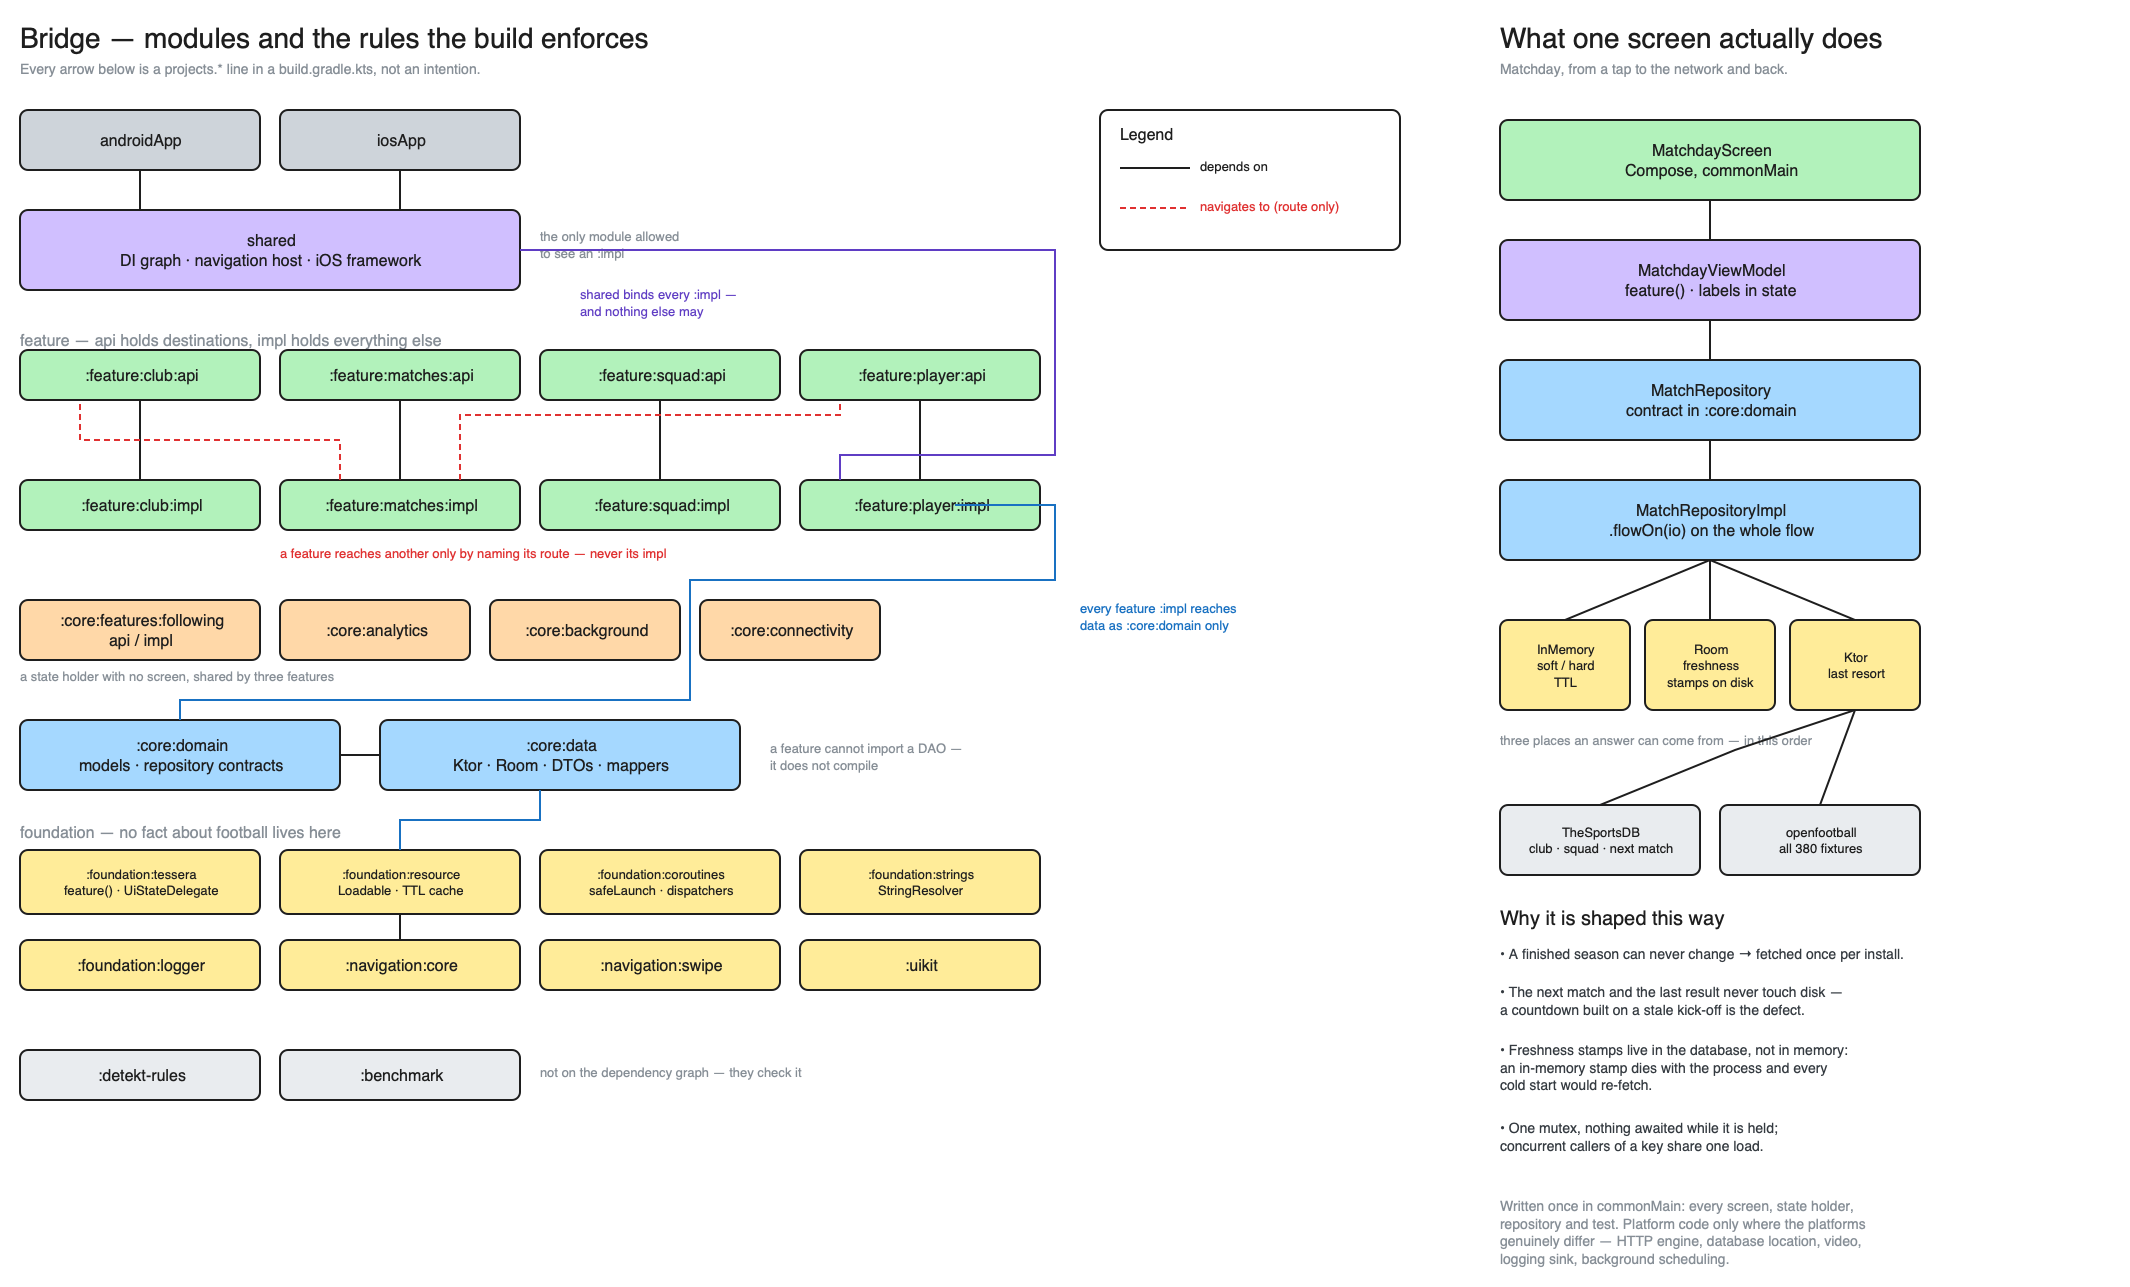
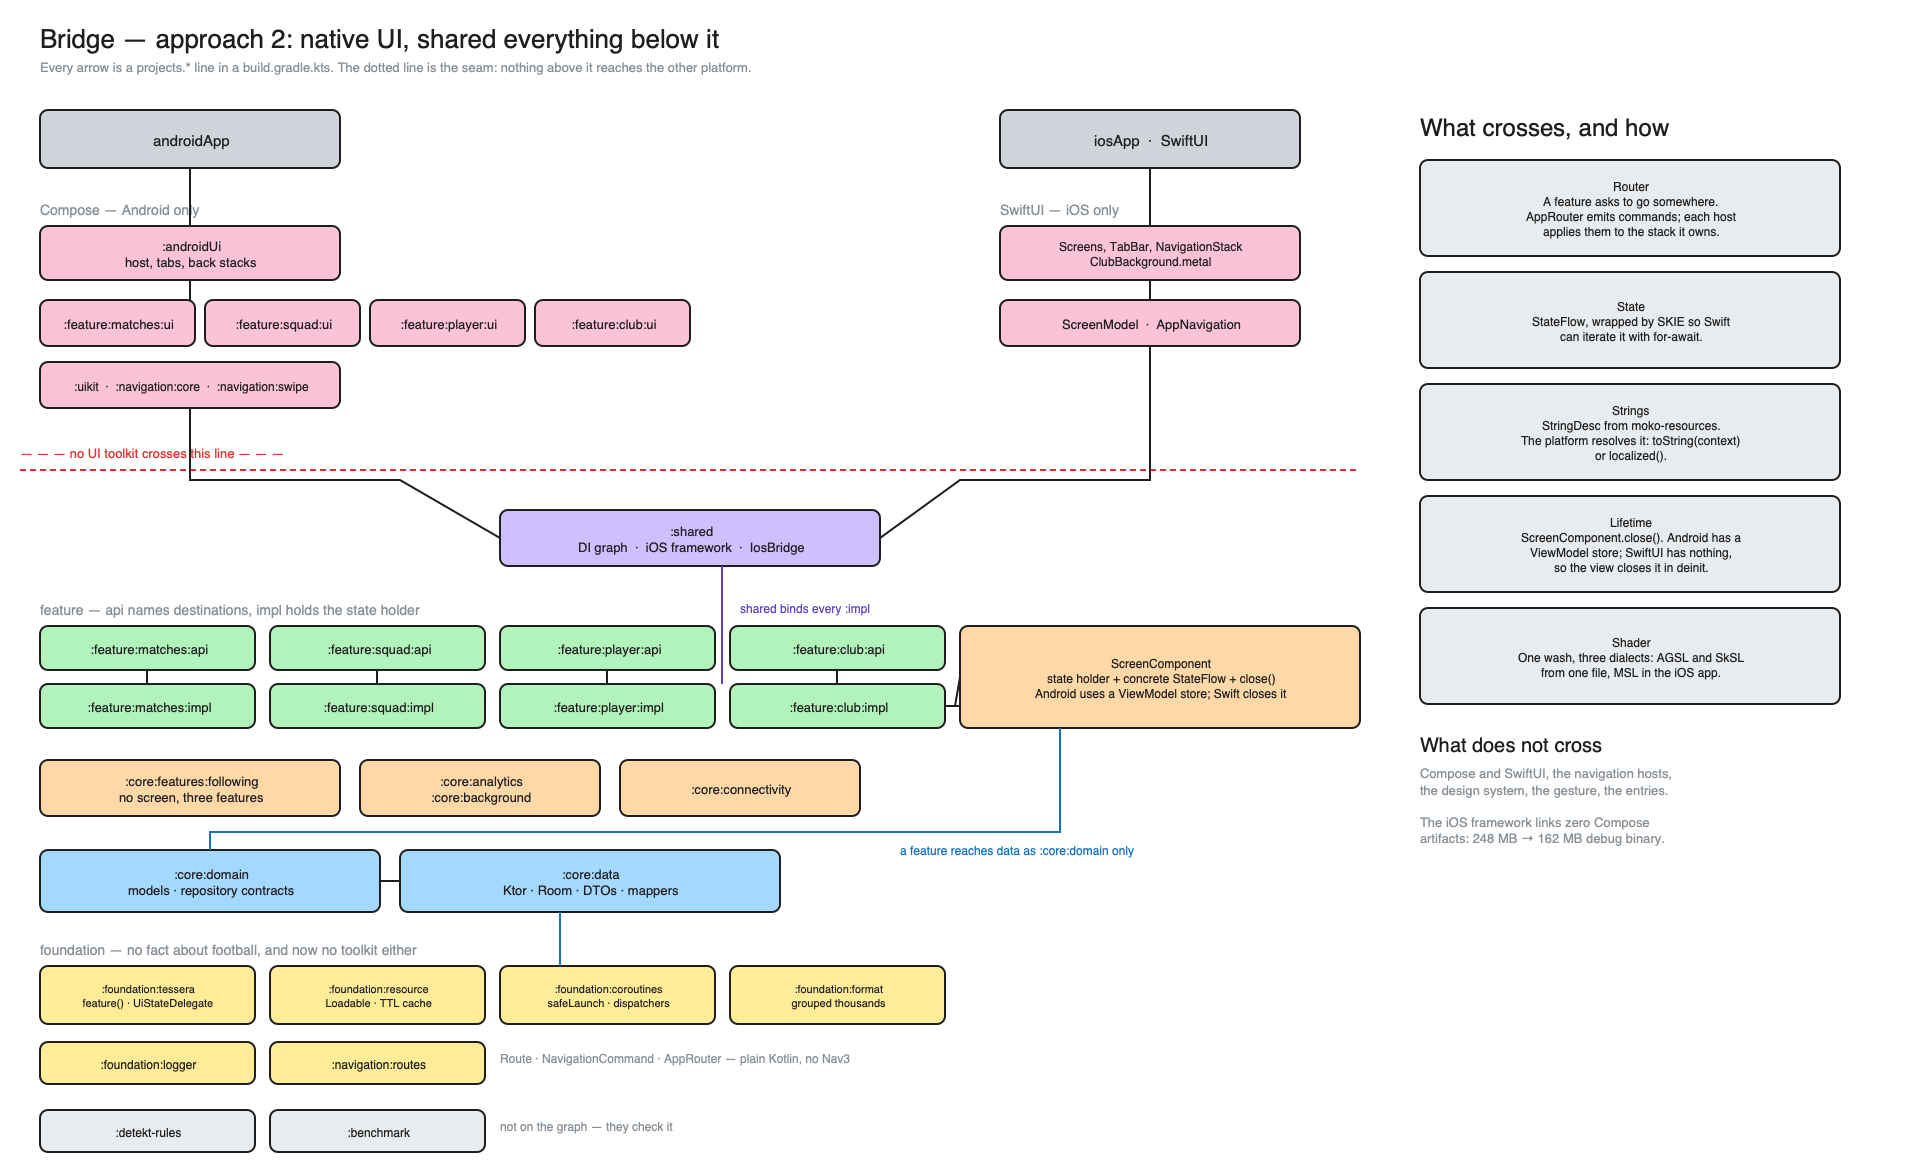
docs: the README and the diagram describe the second approach
The page opened by claiming every screen is written once, which is true on
master and false here. It now names both branches and what each shares, and the
tables say which half of every concern crosses the line: the router decides in
Kotlin and moves in Swift, a string travels as a description and is resolved by
whoever draws it, a state holder is held by a ViewModel store on one side and
closed in deinit on the other.

The diagram is redrawn from the current build files, with the seam across it:
above the dotted line the two UIs, below it everything they share. The module
table gained the third part of every feature and the two modules that came out
of the split.

Screenshots of the SwiftUI screens sit next to the Compose ones they match.

diff --git a/README.md b/README.md
@@ -1,8 +1,17 @@
 # Bridge
 
-**A worked example of a Kotlin Multiplatform app.** One codebase, two platforms, and a real
-feature set rather than a template: networking, a database, navigation with its own gesture,
-runtime shaders, a video player, background work and tests that run on both platforms.
+**A worked example of a Kotlin Multiplatform app, built twice.** One feature set — networking, a
+database, navigation with its own gesture, runtime shaders, a video player, background work — and
+two answers to the question every KMP project has to answer: how much of the UI is shared?
+
+| Branch | UI | Shared |
+|---|---|---|
+| `master` | Compose Multiplatform, one set of screens | everything, including the screens |
+| `feature/native-ui` (this one) | Compose on Android, SwiftUI on iOS | everything below the state holder |
+
+This branch is the second answer. The iOS framework it produces links **zero** Compose artifacts;
+the state holders, the navigation decisions, the data layer and the shader maths are still written
+once. What each platform owns is the drawing.
 
 It is a football supporter app because an example needs a subject. Clone it and run it — there is
 no API key to obtain and no account to create.
@@ -11,15 +20,17 @@ no API key to obtain and no account to create.
 > No club artwork is stored in this repository; every image is loaded at runtime from the data
 > sources listed below.
 
-### iOS
+### iOS — SwiftUI, on the shared state holders
 
-| Matchday | Season |
-|---|---|
-| ![Matchday](docs/screenshots/ios-matchday.jpg) | ![Season](docs/screenshots/ios-season.jpg) |
+| Matchday | Squad | Player |
+|---|---|---|
+| ![Matchday](docs/screenshots/ios-native-matchday.jpg) | ![Squad](docs/screenshots/ios-native-squad.jpg) | ![Player](docs/screenshots/ios-native-player.jpg) |
 
-| Squad | Club |
-|---|---|
-| ![Squad](docs/screenshots/ios-squad.jpg) | ![Club](docs/screenshots/ios-club.jpg) |
+The same screens on `master`, drawn by Compose Multiplatform:
+
+| Matchday | Squad | Club |
+|---|---|---|
+| ![Matchday](docs/screenshots/ios-matchday.jpg) | ![Squad](docs/screenshots/ios-squad.jpg) | ![Club](docs/screenshots/ios-club.jpg) |
 
 ### Android — the same shared code
 
@@ -29,25 +40,26 @@ no API key to obtain and no account to create.
 
 ## What is shared, and what is not
 
-Every screen, every state holder, every repository and every test below is written once in
-`commonMain`. The platform code is the short list on the right, and it is short on purpose: an
-`expect`/`actual` pair is used where the platforms genuinely differ, not to organise the code.
+The line is drawn under the state holder. Everything that decides — what the screen shows, where a
+tap leads, when data is stale — is written once; everything that draws is written twice, on purpose,
+because that is where the platforms differ in kind rather than in detail.
 
 | Concern | Shared | Platform-specific |
 |---|---|---|
-| UI | Compose Multiplatform 1.11.1 — all screens | — |
-| Navigation | Navigation3, routes, router, per-tab stacks, swipe-to-dismiss | — |
-| State | `tessera`: `feature()` / `UiStateDelegate`, ViewModels | — |
-| DI | Koin 4.2 | Android `Context` binding |
+| UI | — | Compose Multiplatform / SwiftUI, screen for screen |
+| Navigation | routes, commands, the router that emits them | the back stacks that obey: Navigation3 / NavigationStack |
+| State | `tessera`: `feature()` / `UiStateDelegate`, ViewModels, `ScreenComponent` | how a screen holds one: a ViewModel store / `deinit` |
+| Strings | the ids and the format arguments, as `StringDesc` | resolving them: `toString(context)` / `localized()` |
+| DI | Koin 4.2, one graph | the host's own bindings, passed in at startup |
 | Network | Ktor 3.5, kotlinx.serialization | OkHttp / Darwin engines |
 | Database | Room 2.8 KMP, bundled SQLite | database file location |
-| Images | coil3 | — |
-| Blur | Haze 2.0 | — |
-| Runtime shaders | one source in a dialect both accept | AGSL / SkSL runtime |
-| Video | playback contract, transport controls | ExoPlayer / AVPlayer |
+| Images | the urls | coil3 / `AsyncImage` |
+| Blur | — | Haze / `.ultraThinMaterial` |
+| Shaders | the maths, constant for constant | three dialects: AGSL, SkSL, MSL |
+| Video | playback contract, the clip | ExoPlayer / `AVPlayer` |
 | Logging | levels, tags, the debug gate | `Log` / `NSLog` |
 | Background refresh | what to refresh | WorkManager / `BGTaskScheduler` |
-| Tests | unit tests and a Compose UI test in `commonTest` | run natively on iOS, on a device on Android |
+| Tests | unit tests in `commonTest`, plus the iOS mapping tests | run natively on iOS, on a device on Android |
 
 Kotlin 2.4.10, Gradle 9.1, AGP 9.0, JDK 21, minSdk 26. Static analysis is detekt with a rule
 written for this repository; performance has a Macrobenchmark module and a recorded baseline
@@ -93,12 +105,58 @@ no-op on iOS — no error, no log. `GlassBackdrop` makes the two siblings by con
 `Modifier.glass()` exists only inside its scope, so the mistake is unrepresentable rather than
 merely documented.
 
-**Strings are never read on the frame.** A Compose resource is a `suspend` call, so reading one
-while composing means either blocking the frame or rendering a screen that has no words yet. Each
-feature instead declares the ids it needs and asks a `StringResolver` for them once, off the main
-thread, before its first frame; the resolved labels then live in the state next to everything else
-the screen draws. The host never names a feature — it asks the graph for every `LabelsLoader` and
-runs them — so a new feature brings its own strings with it.
+**A shared string that neither platform has to resolve.** A Compose resource is a `suspend` call —
+the words live in a bundle Compose ships — so on `master` a whole machinery grew around that: a
+resolver, a loader per feature, and a gate the host waited on before it drew anything. Here a state
+holder carries `StringDesc` from moko-resources: a description of a string rather than a string, and
+the platform that draws it resolves it with `toString(context)` or `localized()`. Nothing is read
+ahead of the first frame because nothing is read at all until something draws.
+
+```kotlin
+data class PlayerLabels(
+    val title: StringDesc = PlayerStrings.strings.player_title.desc(),
+    val number: StringDesc = PlayerStrings.strings.player_number.desc(),
+)
+```
+
+The cost is one Xcode build phase: a static framework carries no resources of its own, so the
+generated bundles are copied into the app — and the crash when they are not is at the first word
+drawn, not at build time.
+
+**A state holder with no store to live in.** Android has a `ViewModelStore` and something that
+empties it; SwiftUI has neither. `ScreenComponent` is what a Swift view holds instead: the state
+holder, its state under a concrete type, and a `close()` the view calls in `deinit`. The DI builds
+the wiring once and hands Compose the ViewModel, Swift the component.
+
+```swift
+@StateObject private var model = ScreenModel(
+    component: IosBridge.shared.matchday(),
+    state: { $0.state },
+    close: { $0.close() }
+)
+```
+
+The component is built **inside** the `StateObject` rather than in the view's `init`. A SwiftUI view
+is a struct that gets rebuilt constantly; building it there makes one per rebuild, and the ones
+SwiftUI discards close on deinit — cancelling the scope the surviving model is waiting on. The
+screen then sits at "loading" for ever, which is exactly what it did.
+
+**Navigation that decides in Kotlin and moves in Swift.** The router holds no stack. It repeats
+decisions — `navigateTo`, `up` — and each host applies them to the stack it owns: a Compose back
+stack on one side, four `NavigationStack`s on the other. The rule that a tab root selects its tab
+instead of being pushed is stated twice, once per host, because it is a statement about tabs rather
+than about routing. Nothing is replayed: a decision nobody is listening to is dropped, because
+obeying it later would move a user who has since gone elsewhere.
+
+Swift gets a vocabulary of its own — `IosNavigation`, a sealed interface SKIE turns into an enum it
+can switch on exhaustively. Route classes stay the features' business: a Swift view has no reason to
+import four `api` modules, and the export only carries types the exported API mentions.
+
+**One shader, three dialects.** The club-blue wash behind the squad cards and the player pager is
+written once in the subset AGSL and SkSL share, and again in Metal for SwiftUI, constant for
+constant — the wave across x, the sweep along x+y, and the half-step dither that keeps a gradient
+this shallow from banding on an 8-bit ramp. Copied, not re-tuned by eye, which is what makes the two
+backgrounds move the same way rather than merely look alike.
 
 **A composition API that refuses to starve.** `combine` emits nothing until every source has
 spoken, so one silent source leaves a screen blank forever. `composeState` therefore accepts only
@@ -168,15 +226,16 @@ rule appears that two screens must agree on, that is when the layer earns its pl
 
 ![Architecture](docs/architecture.png)
 
-Every arrow in that diagram is a `projects.*` line in a `build.gradle.kts` rather than an
-intention, and the right half follows one screen from a tap to the network. The editable source is
+Every arrow in that diagram is a `projects.*` line in a `build.gradle.kts` rather than an intention.
+The dotted line across it is the seam: nothing above it reaches the other platform, and the right
+column says what crosses and in what form. The editable source is
 [docs/architecture.excalidraw](docs/architecture.excalidraw).
 
 | Module | Contains |
 |---|---|
 | `foundation:tessera` | state holders: `feature()` and `UiStateDelegate` ([readme](foundation/tessera/README.md)) |
 | `foundation:coroutines` | the dispatchers a state holder is given, and `safeLaunch`: a launch whose failure is logged instead of reaching the platform handler |
-| `foundation:strings` | `StringResolver`: the only way a feature reads a string resource, and the loader contract the host drives at startup |
+| `foundation:format` | figures a state holder formats before a screen sees them, starting with grouped thousands |
 | `foundation:resource` | how a value is loaded and reported: `Loadable`, the in-memory cache with soft and hard TTL, and the two builders that turn a source into the three states a screen can be in |
 | `foundation:logger:api` / `:impl` | the logging contract, and the platform sink behind it |
 | `core:analytics:api` / `:impl` | the `track` entry point; each feature declares its own events |
@@ -185,21 +244,26 @@ intention, and the right half follows one screen from a tap to the network. The 
 | `core:features:following:api` / `:impl` | followed players: a state holder with no screen, shared by three feature modules |
 | `core:domain` | what the app is about: models and the repository contracts |
 | `core:data` | how it is fetched: HTTP clients, DTOs, Room, mappers, the repository implementations |
-| `uikit` | theme, glass surfaces, runtime-shader brushes, components |
-| `navigation:core` | the routing contract, the router, per-tab stacks ([readme](navigation/core/README.md)) |
+| `navigation:routes` | the vocabulary both hosts share: `Route`, `NavigationCommand`, `AppRouter`. Plain Kotlin — no navigation library, no toolkit |
+| `navigation:core` | the Compose host: `NavDisplay`, per-tab stacks ([readme](navigation/core/README.md)) |
 | `navigation:swipe` | swipe-to-dismiss, knowing nothing about this app ([readme](navigation/swipe/README.md)) |
-| `feature:club:api` / `:impl` | club profile and its ground |
-| `feature:matches:api` / `:impl` | matchday, season calendar, match detail |
-| `feature:squad:api` / `:impl` | squad grid |
-| `feature:player:api` / `:impl` | player pager, and the only screen that writes |
+| `uikit` | theme, glass surfaces, runtime-shader brushes, components — Compose, and therefore Android |
+| `feature:club:api` / `:impl` / `:ui` | club profile and its ground |
+| `feature:matches:api` / `:impl` / `:ui` | matchday, season calendar, match detail |
+| `feature:squad:api` / `:impl` / `:ui` | squad grid |
+| `feature:player:api` / `:impl` / `:ui` | player pager, and the only screen that writes |
 | `detekt-rules` | the custom static-analysis rule |
 | `benchmark` | baseline-profile generator and startup / scroll benchmarks |
-| `shared` | dependency graph, navigation host, iOS framework |
+| `shared` | the dependency graph, the iOS framework, and `IosBridge`: what Swift calls to start and to ask for a component |
+| `androidUi` | the Compose host: tabs, back stacks, the bindings a Compose UI needs |
 | `androidApp` / `iosApp` | platform shells |
 
-Feature modules never depend on each other. Each is split in two: `api` holds the destinations it
-owns, `impl` holds its screens, state holders and wiring. Only the composition root may depend on
-an `impl`, and it does so from one file — the DI graph.
+Feature modules never depend on each other. Each is split in three: `api` holds the destinations it
+owns, `impl` holds the state holder and its wiring, `ui` holds the Compose screens. The third part
+exists because of a compiler rather than a preference — the Compose plugin runs over every
+compilation in a project and refuses to work without its runtime, so a module cannot be Compose on
+Android and nothing on iOS. Only the composition root may depend on an `impl`, and only the Android
+host may depend on a `ui`.
 
 **Features reach each other by naming a destination.** Tapping the stadium card on matchday opens
 the club screen: `feature:matches:impl` depends on `feature:club:api` and calls
@@ -214,6 +278,34 @@ editing the host.
 Shared configuration lives in three convention plugins under `build-logic`, so a module's build
 file is a plugin id and its dependencies.
 
+## The iOS side, concretely
+
+Swift starts the graph itself and asks it for components:
+
+```swift
+@main
+struct iOSApp: App {
+    init() { IosBridge.shared.start() }
+    …
+}
+```
+
+Three things make that workable, and each is a choice worth knowing about:
+
+- **SKIE** turns `StateFlow` into something Swift iterates with `for await`, and a sealed interface
+  into an enum with an exhaustive `switch`. Its analytics upload is switched off — a build of this
+  repository should not phone anywhere.
+- **State is exposed as a concrete type.** `uiStateFlow` is declared on a generic interface, and a
+  generic interface is the one shape the Swift export handles worst, so `ScreenComponent` exposes
+  `StateFlow<MatchdayUiState>` directly.
+- **The export carries only what the exported API mentions.** A type nobody names never reaches
+  Swift — which is why `Countdown` is returned by a function on the component rather than left for
+  Swift to construct.
+
+Two names had to change for the interop rather than for taste: `ClubUi.description` became `summary`,
+because every Swift object inherits `description` from `NSObject` and a Kotlin field of that name is
+shadowed by it.
+
 ## Building
 
 Requires JDK 21 and an Android SDK; Gradle provisions its own toolchain.
@@ -226,6 +318,9 @@ Requires JDK 21 and an Android SDK; Gradle provisions its own toolchain.
 ```
 
 For iOS, open `iosApp/iosApp.xcodeproj` in Xcode and run.
+
+The framework the Xcode build embeds contains no Compose: the classpath went from 198 Compose
+artifacts on `master` to none here, and the debug binary from 248 MB to 162 MB.
 
 ## License
 
